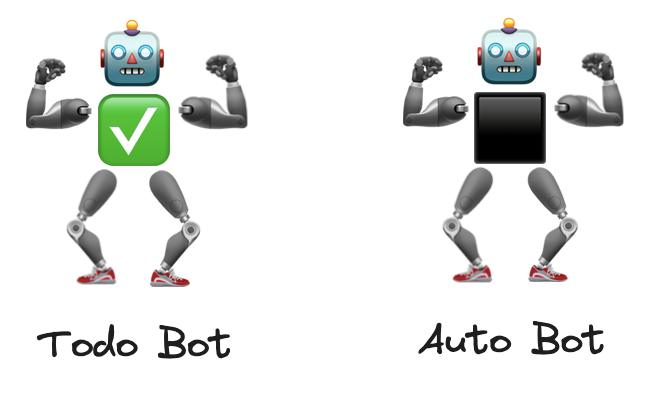
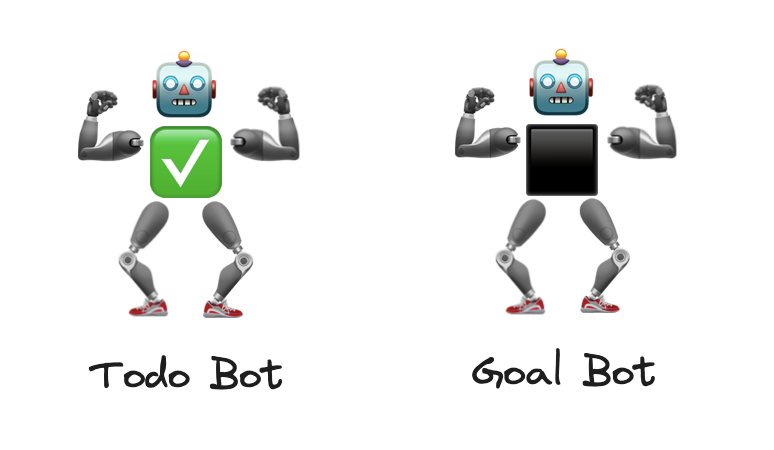
goal-bot instead of auto-bot

diff --git a/_posts/2023/2023-06-13-todo-bot-vs-goal-bot.md b/_posts/2023/2023-06-13-todo-bot-vs-goal-bot.md
@@ -1,0 +1,43 @@
+---
+layout: post
+title: Todo-bot vs. Goal-bot
+tags: reflecting
+---
+
+![bots](assets/bots/bots.png)
+
+![todo-bot](assets/bots/todo-bot.png)
+
+### The Todo-bot
+- Does what you tell it to do, compliant with any request
+- Takes a list and does them in order
+- Tells you when it's doing somthing or when it's stuck
+- Maintain itself, when told to do so
+- Respects your authority at all times
+- Comes with a built-in progress bar
+- Needs rewards for each task done
+
+![goal-bot](assets/bots/goal-bot.png)
+
+### The Goal-bot
+- Does not always do what's told, sometimes refuses requests
+- Needs description on how the world will change by its actions
+- Can only focus on one goal at a time; can't process goal lists
+- Autonomously seeks tasks towards the goal 
+- Can't tell you exactly what it will do, or when it will do it
+- Maintains itself if it helps achieve the goal
+- When multiple tasks are available, it chooses ones to progress the goal
+- Always tries to achieve the goal, but there's no progress bar
+- Needs rewards for doing the right thing
+
+### Exercise left for the reaader
+
+- Which bot would you rather hire?
+- What would an assembly of each class of bots look like?
+- Which bot are you?
+- Which bot do you treat your future self as?
+- How would you debug either bot?
+- How do you measure each bot's performance?
+- How would you incentivize each bot to maximize their performance?
+- What's the internal data structure of each bot?
+- Is it possible to combine the positive attributes of both?
